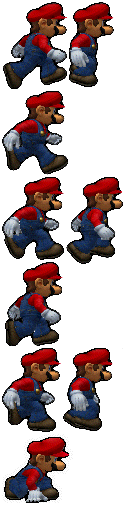
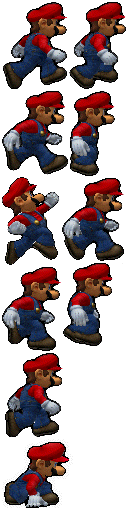
Jumpsquat
Player displays a jumpsquat animation before jumping.

This was a test for movement. Before the player can do more complicated
movements, a state machine needs to be implemented.

diff --git a/src/main.js b/src/main.js
@@ -31,7 +31,17 @@ var foreground;
 
 var runSpeed;
 var canDoubleJump = false;
+var jumpsquatting = false;
 
+// Enum for different player states
+var stateEnum = Object.freeze(
+		{
+			running: {},
+			jumpsquat: {},
+			jumping: {}
+		}
+	);
+var playerState;
 
 
 
@@ -72,8 +82,9 @@ function create() {
 
 	// Testing texture atlas
 	player = game.add.sprite(0,0, 'mario atlas');
-	player.animations.add('right', Phaser.Animation.generateFrameNames('mario_run_', 1, 8, '.png'), 15, true);
-
+	player.animations.add('right', Phaser.Animation.generateFrameNames('mario_run_', 1, 8, '.png'), 24, true);
+	player.animations.add('jumpsquat', ['mario jumpsquat.png'], 1, true);
+	player.animations.add('jump', ['mario_jump.png'], 1, true);
 
 
 	// create the player
@@ -115,6 +126,8 @@ function create() {
 
 	player.animations.play('right');
 
+	// player.frameName = 'mario_run_5.png';	// <- how to set to a specific frame
+
 
 
 
@@ -128,9 +141,6 @@ function update() {
 	/* Player movement */
 	
 	runSpeed = 450;
-
-	// Testing texture atlas
-	// player.animations.play('right');
 
 	// Enable double jump when grounded
 	// Warning: may also count as touching when landing on sprites other than 'ground'
@@ -150,9 +160,11 @@ function update() {
 
 	console.log("elapsed: " + jumpsquatTimer.ms);
 
-	if(jumpsquatTimer.ms > 1000){
-		console.log("it's been more than a second!");
+
+	if(player.body.touching.down && jumpsquatting == false){
+		player.animations.play('right');
 	}
+
 }
 
 // Player jumps
@@ -167,13 +179,16 @@ function jump() {
 		// jumpsquatTimer = game.time.create(false);
 		// game.time.events.add(1000, shout, this);
 		// jumpsquatTimer = game.time.create(false);
-		jumpsquatTimer = new Phaser.Timer(game, false);
-		jumpsquatTimer.start();
-		console.log("elapsed: " + jumpsquatTimer.ms);
+		// jumpsquatTimer = new Phaser.Timer(game, false);
+		// jumpsquatTimer.start();
+		// console.log("elapsed: " + jumpsquatTimer.ms);
 
 		// testing. still
 		// one stop timer approach
-		var fullHopTimer = game.time.events.add( 100, fullhop, game);
+		var fullHopTimer = game.time.events.add( 150, fullhop, game);
+		player.animations.stop();
+		player.animations.play('jumpsquat');
+		jumpsquatting = true;
 
 
 		// First jump
@@ -189,12 +204,18 @@ function jump() {
 function shorthop() {
 	if(player.body.touching.down){
 		player.body.velocity.y = -800;
+		player.animations.stop();
+		player.animations.play('jump');
+		jumpsquatting = false;
 	}
 }
 
 function fullhop(){
 	if(player.body.touching.down){
 		player.body.velocity.y = -1500;
+		player.animations.stop();
+		player.animations.play('jump');
+		jumpsquatting = false;
 	}
 	
 }
